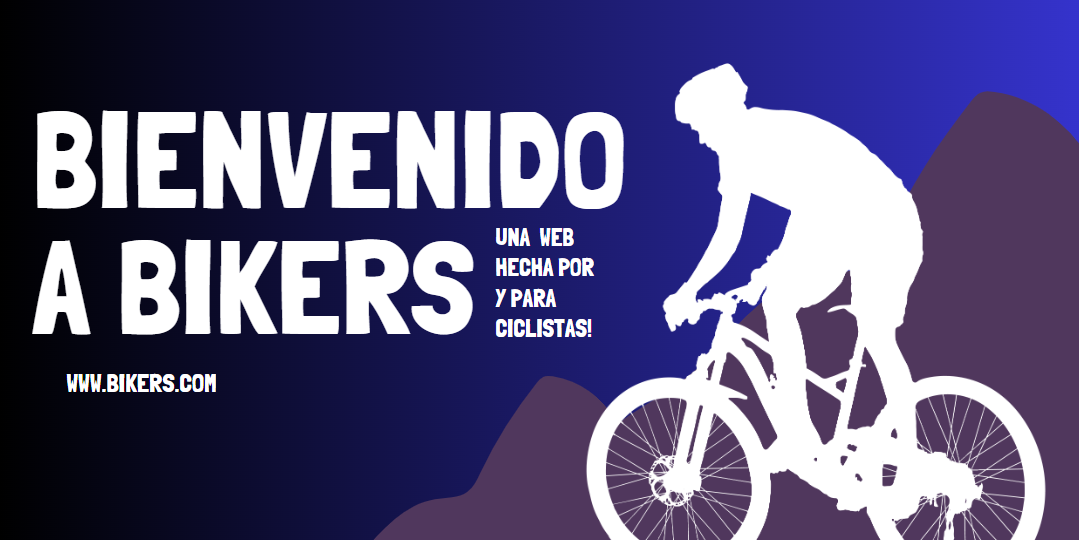
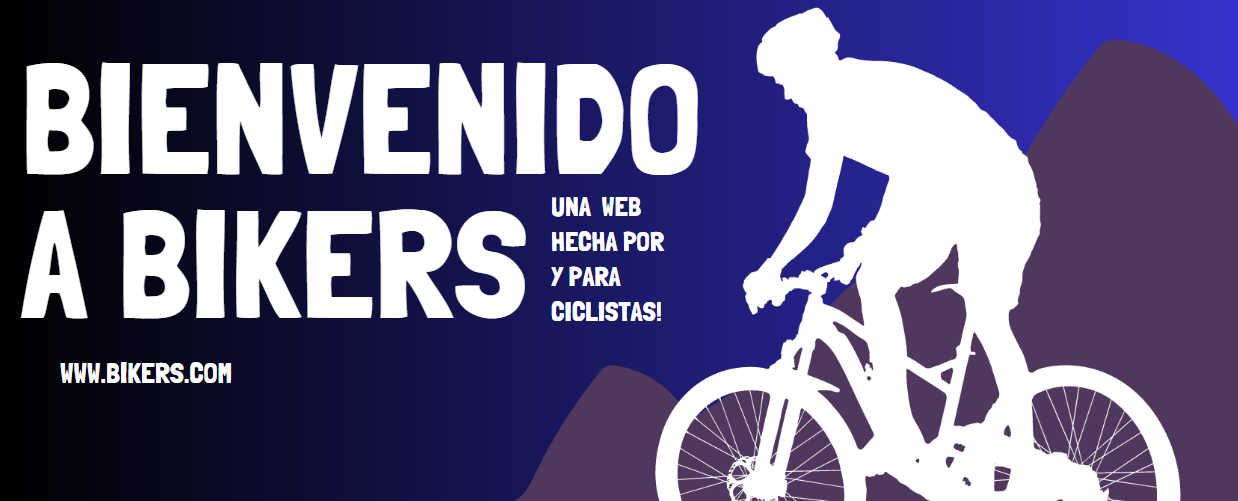
NavBar Actualizado
He solucionado el error del switch, colocado el banner del incio y "colocado" un lorem.
Del nav solo queda hacer que el switch no se reinicie, poner la prueba que he hecho y pasar lo de js a vuejs.

diff --git a/style.css b/style.css
@@ -232,7 +232,7 @@ header .texto-imagen .texto-header{
 .barra-menu .modo i.sol{
     opacity: 0;
 }
-/*BUSCAR FORMA DE QUE EL SWITCH NO SE VEA POR ENCIMA DEL TEXTO SIN <br>*/
+
 .barra-menu .modo .toggle-switch{
     position: absolute;
     right: 0;
@@ -272,9 +272,9 @@ body.oscuro .switch::before{
 /*--------------------SECTION INICIO---------------------*/
 
 .inicio{
-    margin-top: 25px;
+    margin-top: 15px;
     position:relative;
-    left: 500px;
+    left: 325px;
     width: calc(100% -250px);
     transform: var(--tran-05);
 }
@@ -284,8 +284,23 @@ body.oscuro .switch::before{
     width: calc(100% -88px);
 }
 
-.imicio .respon-img {
-    width: 100%;
-    max-width: 400px;
+.inicio .banner {
+    height: 650px;
+    width: 1400px;
     height: auto;
+    border-radius: 6px;
+}
+
+.contenedor{
+    margin-top: 5px;
+    position:relative;
+    left: 325px;
+    width: calc(100% -250px);
+    text-align: center;
+    transform: var(--tran-05);
+}
+
+.sidebar.cerrar ~.contenedor.noticias.texto{
+    left: 88px;
+    width: calc(100% -88px);
 }

diff --git a/index.html b/index.html
@@ -91,7 +91,18 @@
     </nav>
     <section>
       <div class="inicio">
-        <img src="IMAGENES/banner.png" alt="banner" class="respon-img">
+        <img src="IMAGENES/banner.png" alt="banner" class="banner">
+        <div class="contenerdor">
+          <h1 class="noticias">Noticias</h1>
+          <p class="texto texto-contenedor">Lorem ipsum dolor, sit amet consectetur adipisicing elit. 
+            Cum accusamus ad repellendus iusto similique quasi? Aut sequi 
+            corrupti soluta non optio illo, molestias, mollitia, suscipit doloribus 
+            rem ut impedit quis!
+            Lorem ipsum dolor, sit amet consectetur adipisicing elit. 
+            Cum accusamus ad repellendus iusto similique quasi? Aut sequi 
+            corrupti soluta non optio illo, molestias, mollitia, suscipit doloribus 
+            rem ut impedit quis!</p>
+        </div>
       </div>
     </section>
     <script src="script.js"></script>

diff --git a/script.js b/script.js
@@ -4,7 +4,7 @@ const body = document.querySelector("body"),
       toggle = body.querySelector(".toggle"),
       botonBuscar = body.querySelector(".buscador"),
       modoSwitch = body.querySelector(".toggle-switch"),
-      modoTexto = body.querySelector(".modo-texto");
+      modoTexto = body.querySelector(".texto-modo");
       
       toggle.addEventListener("click", () =>{
         sidebar.classList.toggle("cerrar");
@@ -13,11 +13,11 @@ const body = document.querySelector("body"),
       modoSwitch.addEventListener("click", () =>{
         body.classList.toggle("oscuro");
 
-        /*ARREGLAR PARA QUE CAMBIE*/
         if(body.classList.contains("oscuro")){
-            modoTexto.innerText = "Modo Claro"
+          modoTexto.innerText = "Modo Claro";
         }
         else{
-            modoTexto.innerText = "Modo Oscuro"
+          modoTexto.innerHTML = "Modo<br>Oscuro";
         }
       });
+
